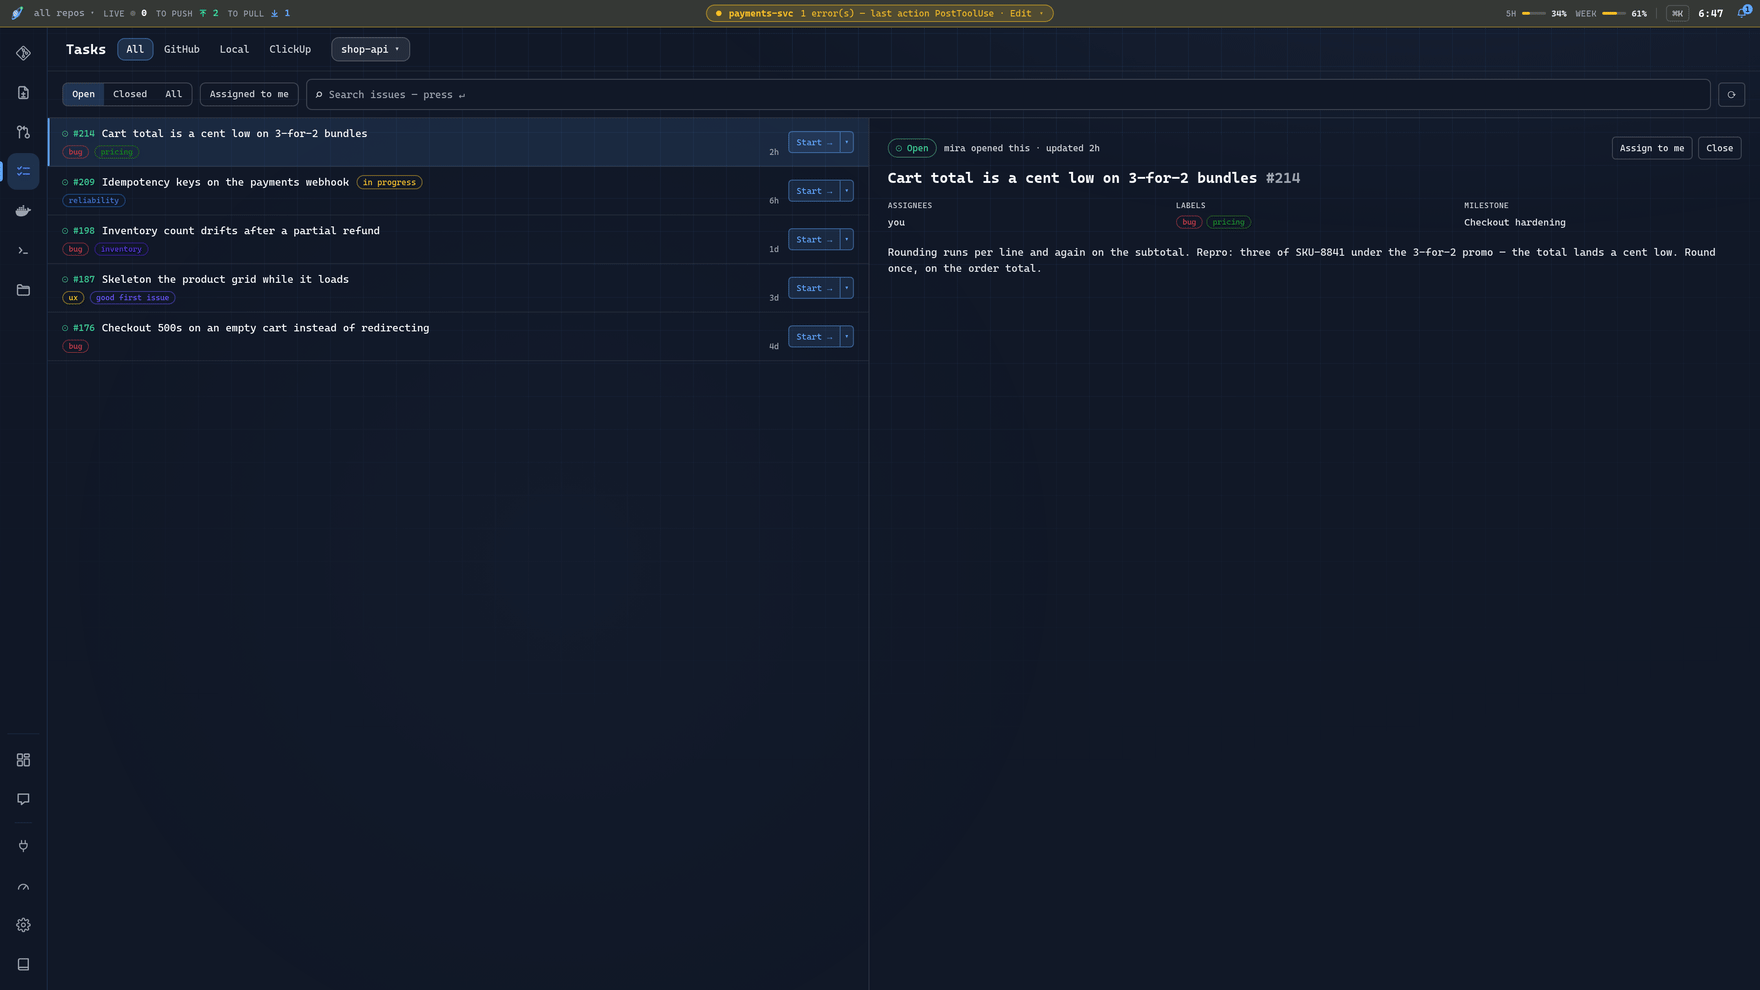
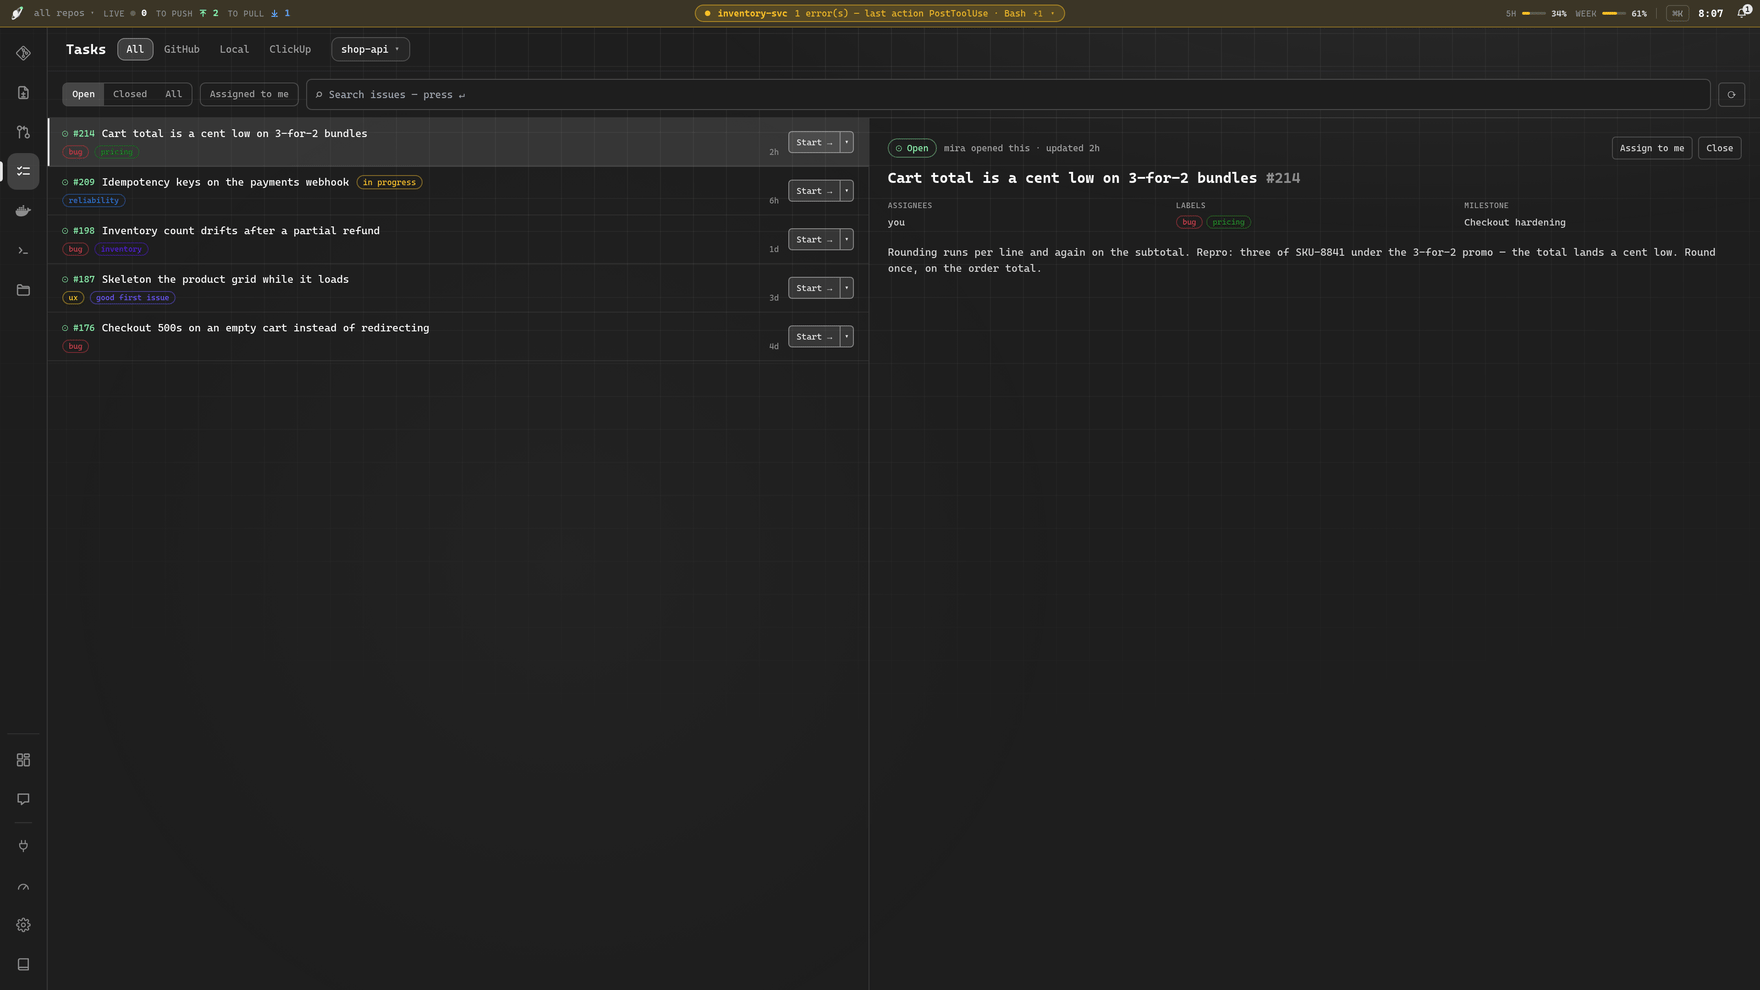
Recapture every shot in Graphite — the house dark is no longer blue or purple
The 0.8 merge made Graphite (SERIOUS_DARK) the serious dark and Porcelain the
serious light; the shots were still on the old blue "dark", and the phone
companion and the terminal were older still (Midnight Purple). Every capture
script now pins the serious pair through both keys — `agentglass-theme` and
`agentglass-theme-mode` — so however the app resolves the theme on boot it
lands on Graphite (or Porcelain for the light showcase), never the old palette.

  - capture.ts: Graphite for every README still and the hero GIF; the theme
    showcase is Graphite / Porcelain (filenames stay theme-dark / theme-light).
  - capture-phone.ts: Graphite, and its composite backdrop and captions go from
    purple to neutral graphite. The published demo now forces the cockpit onto a
    phone visitor, so the shot sets the "mobile" layout override to show the
    companion at all — and the theme + override are injected at document-start,
    so the one load already carries them.
  - capture-live.ts: Graphite, and the first-run project picker is dismissed
    before typing — left open it stole the keyboard, so the PS1 that hides the
    operator's user@host never ran and a real hostname landed in the shot.

Changed region(s): [[0.0, 0.0606, 0.5, 0.3636], [0.375, 0.0, 0.625, 0.0303], [0.0625, 0.0303, 0.0938, 0.0606]]

diff --git a/scripts/capture-phone.ts b/scripts/capture-phone.ts
@@ -67,23 +67,23 @@ const SCREENS: {
 
 const figure = (shots: string[]) => `<meta charset="utf-8"><style>
 *{box-sizing:border-box;margin:0;padding:0}
-body{width:${FIG.w}px;height:${FIG.h}px;overflow:hidden;background:#0f0a1a;
+body{width:${FIG.w}px;height:${FIG.h}px;overflow:hidden;background:#141414;
   font-family:ui-monospace,"SF Mono",Menlo,monospace}
 .bg{position:absolute;inset:0;background:
-  radial-gradient(50% 42% at 78% -10%,color-mix(in srgb,#a78bfa 22%,transparent),transparent),
-  radial-gradient(46% 38% at 8% 2%,color-mix(in srgb,#a78bfa 16%,transparent),transparent),
-  linear-gradient(180deg,#150e26,#0f0a1a 60%)}
+  radial-gradient(50% 42% at 78% -10%,color-mix(in srgb,#e5e5e5 7%,transparent),transparent),
+  radial-gradient(46% 38% at 8% 2%,color-mix(in srgb,#e5e5e5 5%,transparent),transparent),
+  linear-gradient(180deg,#1c1c1c,#141414 60%)}
 .grid{position:absolute;inset:0;
-  background-image:linear-gradient(color-mix(in srgb,#a78bfa 6%,transparent) 1px,transparent 1px),
-    linear-gradient(90deg,color-mix(in srgb,#a78bfa 6%,transparent) 1px,transparent 1px);
+  background-image:linear-gradient(color-mix(in srgb,#e5e5e5 4%,transparent) 1px,transparent 1px),
+    linear-gradient(90deg,color-mix(in srgb,#e5e5e5 4%,transparent) 1px,transparent 1px);
   background-size:36px 36px;
   -webkit-mask-image:radial-gradient(120% 100% at 50% 0%,#000,transparent 82%)}
 .row{position:absolute;inset:0;display:flex;align-items:center;justify-content:center;gap:58px}
 figure{position:relative}
 figure img{display:block;width:416px;height:900px;border-radius:24px;
-  box-shadow:0 44px 90px -34px rgba(0,0,0,.95),0 0 0 1px color-mix(in srgb,#6d28d9 55%,transparent)}
+  box-shadow:0 44px 90px -34px rgba(0,0,0,.95),0 0 0 1px color-mix(in srgb,#4c4c54 70%,transparent)}
 figcaption{position:absolute;left:0;right:0;bottom:-34px;text-align:center;font-size:14px;
-  letter-spacing:.22em;text-transform:uppercase;color:#c084fc}
+  letter-spacing:.22em;text-transform:uppercase;color:#a1a1a1}
 </style>
 <div class="bg"></div><div class="grid"></div>
 <div class="row">${SCREENS.map((s, i) =>
@@ -106,19 +106,34 @@ async function main() {
       "--no-default-browser-check", "--disable-gpu", "--no-sandbox", "--force-color-profile=srgb",
       // Deterministic frames: otherwise each shot catches the queue's
       // entry animations wherever they happened to be.
-      "--force-prefers-reduced-motion", url],
+      // Start blank: the theme injection and the mobile emulation are set up
+      // over CDP first, then the page is navigated once — a load that already
+      // carries both, so there is no reload to drop the phone layout.
+      "--force-prefers-reduced-motion", "about:blank"],
     stdout: "ignore", stderr: "ignore",
   });
 
   try {
     const cdp = await connect(port);
+    // Two things, injected to run at document-start on the demo document, before
+    // the app reads either — so the very first (and only) load already carries
+    // them, with no reload to drop the mobile emulation:
+    //   - Graphite (SERIOUS_DARK), the serious dark, not the old purple.
+    //   - The phone-layout override. The published demo deliberately shows the
+    //     cockpit to a phone visitor (wantsPhoneLayout returns false when demo),
+    //     but this shot IS the companion, so the "mobile" override — which wins
+    //     ahead of the demo rule — forces it.
+    await cdp.send("Page.addScriptToEvaluateOnNewDocument", {
+      source: `try{localStorage.setItem('agentglass-theme','graphite');localStorage.setItem('agentglass-theme-mode','dark');localStorage.setItem('agentglass_layout','mobile');}catch(e){}`,
+    });
     // mobile:true is what makes the layout switch — it is a coarse pointer,
     // not only a narrow window, that decides (web/src/lib/viewport.ts).
     await cdp.send("Emulation.setDeviceMetricsOverride", {
       width: PHONE.w, height: PHONE.h, deviceScaleFactor: PHONE.scale, mobile: true,
     });
     await cdp.send("Emulation.setTouchEmulationEnabled", { enabled: true, maxTouchPoints: 5 });
-    await until(cdp, `document.querySelector('#root')?.children.length`, "the app to mount");
+    await cdp.send("Page.navigate", { url });
+    await until(cdp, `document.querySelector('#root')?.children.length`, "the graphite phone");
     await until(cdp, `[...document.querySelectorAll('button')].some(b=>b.textContent.includes('Repos'))`,
       "the phone layout (is this build wide-only?)");
     await Bun.sleep(2500); // let the demo stream seed a queue

diff --git a/scripts/capture.ts b/scripts/capture.ts
@@ -90,12 +90,17 @@ async function main() {
     await until(cdp, `document.querySelector('#root')?.children.length`, "the app to mount");
     await Bun.sleep(2500); // let the demo stream seed a few events
 
-    // Serious dark for every shot — the house "Dark" palette, set before the
-    // viewport is probed so nothing is captured mid-repaint. (The theme key is
-    // `agentglass-theme`, hyphenated; a dotted `agentglass.theme` reaches nobody.)
-    await cdp.ev(`(()=>{try{localStorage.setItem('agentglass-theme','dark');return 1}catch{return 0}})()`);
+    // Serious dark for every shot — the house dark is Graphite (SERIOUS_DARK),
+    // not the old blue "dark", set before the viewport is probed so nothing is
+    // captured mid-repaint. Both keys: the theme id and the mode segment, so
+    // however the app resolves the theme on boot it lands on Graphite. (The key
+    // is `agentglass-theme`, hyphenated; a dotted `agentglass.theme` reaches
+    // nobody, and the mode is `agentglass-theme-mode`.)
+    const setTheme = (id: string, mode: string) =>
+      cdp.ev(`(()=>{try{localStorage.setItem('agentglass-theme',${lit(id)});localStorage.setItem('agentglass-theme-mode',${lit(mode)});return 1}catch{return 0}})()`);
+    await setTheme("graphite", "dark");
     await cdp.ev(`location.reload()`);
-    await until(cdp, `document.querySelector('#root')?.children.length`, "the dark theme");
+    await until(cdp, `document.querySelector('#root')?.children.length`, "the graphite theme");
     await Bun.sleep(2500);
 
     // Size the viewport to the dashboard rather than cropping the dashboard to
@@ -208,26 +213,29 @@ async function main() {
     await key(cdp, "Escape");
     await Bun.sleep(600);
 
-    // Themes, on the dashboard so they are comparable. The two serious
-    // defaults, side by side: the house Dark and Light.
-    const themes: [string, number][] = [
-      ["dark", STILL_W], ["light", STILL_W],
+    // Themes, on the dashboard so they are comparable. The two serious defaults,
+    // side by side: Graphite (Dark) and Porcelain (Light). The filenames stay
+    // theme-dark / theme-light — that is what each is, a dark shot and a light
+    // one — while the palette is the serious pair, not the old blue and white.
+    const themes: [string, string, string][] = [
+      ["graphite", "dark", "theme-dark"],
+      ["porcelain", "light", "theme-light"],
     ];
-    for (const [t, tw] of themes) {
-      const ok = await cdp.ev(`(()=>{try{localStorage.setItem('agentglass-theme',${lit(t)});window.dispatchEvent(new StorageEvent('storage',{key:'agentglass-theme'}));return 1}catch{return 0}})()`);
+    for (const [id, mode, name] of themes) {
+      const ok = await setTheme(id, mode);
       if (!ok) continue;
       await cdp.ev(`location.reload()`);
       // Wait for the rail itself, not just #root: the reload restores the last
       // view (not the dashboard), and clicking before the rail has mounted is
       // what left both theme shots on the empty chat pane.
-      await until(cdp, `document.querySelector('[data-view="dash"]')`, `the ${t} rail`);
+      await until(cdp, `document.querySelector('[data-view="dash"]')`, `the ${id} rail`);
       await Bun.sleep(700);
       // Back to the dashboard for every theme, at its own height, so the Dark
       // and Light shots are the same picture in two palettes.
       await cdp.ev(`(()=>{document.querySelector('[data-view="dash"]')?.click();return 1})()`);
       await Bun.sleep(1800);
       await setViewport(TALL);
-      await capture(`theme-${t}`, 0, tw);
+      await capture(name, 0, STILL_W);
     }
 
     cdp.close();

diff --git a/scripts/capture-live.ts b/scripts/capture-live.ts
@@ -104,7 +104,17 @@ async function main() {
     });
 
     const cdp = await connect(dport);
-    await until(cdp, `document.querySelector('#root')?.children.length`, "the app to mount", 25_000);
+    // Injected to run at document-start on the reloaded page, before the app
+    // reads any of them — so they are in place a tick early rather than a tick
+    // late (setItem-then-reload left the first-run picker sitting over the shot):
+    //   - Graphite (SERIOUS_DARK), so the terminal matches the other shots.
+    //   - agentglass.projectChosen, so the first-run "Open a project" picker,
+    //     which keys off that flag, never opens over the terminal.
+    await cdp.send("Page.addScriptToEvaluateOnNewDocument", {
+      source: `try{localStorage.setItem('agentglass-theme','graphite');localStorage.setItem('agentglass-theme-mode','dark');localStorage.setItem('agentglass.projectChosen','1');}catch(e){}`,
+    });
+    await cdp.send("Page.reload");
+    await until(cdp, `document.querySelector('#root')?.children.length`, "the graphite terminal", 25_000);
     await Bun.sleep(2500);
     // 16:9, matching the other workspace panels in capture.ts — the terminal
     // fills its height, so the dashboard's taller viewport would only add floor.
@@ -134,6 +144,15 @@ async function main() {
     await until(cdp, `document.querySelector('.xterm-helper-textarea')`, "the shell", 15_000);
     await Bun.sleep(2000);
 
+    // Close the first-run "Open a project" picker BEFORE typing. Left open it
+    // steals the keyboard: the PS1 that hides the operator's user@host never
+    // reaches the shell, and the raw prompt — a real hostname — lands in the
+    // shot. Click its scrim (the backdrop, whose onClick is the dismiss), with
+    // Escape as a fallback, then let focus settle back on the terminal.
+    await cdp.ev(`(()=>{const s=document.querySelector('.agx-scrim');s&&s.click();return !!s})()`);
+    await key(cdp, "Escape");
+    await Bun.sleep(700);
+
     // Something worth reading, typed into the real shell.
     await cdp.ev(`(()=>{const t=document.querySelector('.xterm-helper-textarea');t?.focus();return 1})()`);
     await Bun.sleep(400);
@@ -156,6 +175,10 @@ async function main() {
       await Bun.sleep(1600);
     }
     await Bun.sleep(2000);
+    // Safety net: if the picker is somehow up again, close it on its scrim
+    // before the shutter (it was already dismissed before typing).
+    await cdp.ev(`(()=>{const s=document.querySelector('.agx-scrim');s&&s.click();return !!s})()`);
+    await Bun.sleep(500);
     const file = join(OUT, "terminal.png");
     writeFileSync(file, await cdp.shot());
     finishStill(file);
